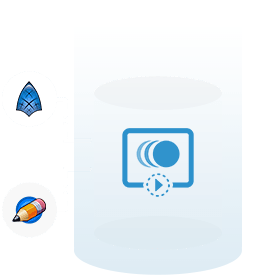
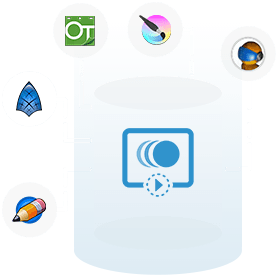
Fixed header image

diff --git a/en/animation-software/k3d/_index.md b/en/animation-software/k3d/_index.md
@@ -1,0 +1,32 @@
+---
+keywords: open source 3d modeling software, best 3d animation software, free 3d modeling software, free 3d modeling software for beginners
+title: K-3D | Free To Use & Open Source 3d Modeling Software
+singlepageh1title: Free To Use & Open Source 3d Modeling Software
+description: K-3D is an open source software that can be used for 3D animation and modeling. It has a plugin-oriented procedural engine for powerful and quick processing.
+singlepageh2title: K-3D is an open source software that can be used for 3D animation and modeling. It has a plugin-oriented procedural engine for powerful and quick processing.
+Shortdescriptionlistingpage: K-3D is an open source software that can be used for 3D animation and modeling. It has a plugin-oriented procedural engine for powerful and quick processing.
+linktitle: K-3D
+Imagetext: Free Animation Software
+draft: false
+weight: 4
+layout: "single"
+GithubLink: https://github.com/K-3D/k3d
+HomePage_TitleText: Open Source Animation Software
+
+ListingPage_MenuImage_TitleText: K-3D Logo
+ListingPage_MenuImage_AltText: Best Open Source Animation Software
+ListingPage_Link_TitleText: Explore K-3D
+
+SinglePage_HeaderImage_TitleText: K-3D | Free To Use & Open Source 3d Modeling Software
+SinglePage_HeaderImage_AltText: K-3D | Free To Use & Open Source 3d Modeling Software
+SinglePage_MenuImage_TitleText: K-3D | Free To Use & Open Source 3d Modeling Software
+SinglePage_MenuImage_AltText: K-3D | Free To Use & Open Source 3d Modeling Software
+
+
+---
+
+K-3D is a completely free and one of the best 3d animation software animation software that is released under the GNU public license, and is written completely in C++ keeping in mind that it can be used on multiple platforms. As a 3D animation and modelling application, K-3D is quite powerful while providing versatile and basic animation features.
+
+Not only can you use this free 3d modeling software on a Windows operating system, but K-3D is compatible with Mac OS, FreeBSD, Linux/GNU, and other platforms as well. Furthermore, if you want to integrate K-3D into other 3-D interactive applications like Collada, GLX, Gnome, GTS, OpenEXR, OpenCASCADE and more, you can adapt and build K-3D to support them. 
+
+K-3D isn’t only versatile but extremely flexible as it allows users to create complex workflows combining different animation models, mirroring different sides, or applying changes to the entire workflow and watch as all the changes are applied automatically. K-3D is an intuitive animation software which both new users and professionals will find easy to navigate and use. 

diff --git a/en/animation-software/k3d/features.md b/en/animation-software/k3d/features.md
@@ -1,0 +1,20 @@
+---
+title: Features
+onpagelink: features
+weight: 2
+
+---
+
+#### **Features**
+
+Here are some good to know features about this open source animation software:
+
+- You can use K-3D to create animation files that use OpenGL solid, shaded or texture mapped views and can be edited at any time. 
+- There are many interactive tutorials and macros available to use K-3D which you can record and share with the community or playback for yourself.
+- For maximum productivity K-3D allows you to playback animation at any time during the modelling, editing or animating part of a task.
+- K-3D provides many viewing angles that let you pan, tilt, zoom in or out, or view animation in dolly, tripod or modelling modes.
+- One of the best features of K-3D includes the establishing of connection between arbitrary data in the visualization pipeline. You can connect any object property with another one to create complex and unique pipelines.
+- K-3D provides many basic and advanced animation features such as Bezier curve, animate different modelling operations, apply different textures with a 16-bit float bitdepth and more.
+- Rendering is pretty powerful for K-3D as it includes industrial strength standards as its foundation with the inclusion of native RenderMan ™ support including Aqsis, Pixie, Render Dot c and more.
+- You can also create 2D compositions instead of 3D animation. Some of the 3D primitives include cone, circle, disk, cylinder, as well as geometry types like Polygon, NURBS, blobby and more.
+- K-3D is a free 3d modeling software for beginners. New artists will find K-3D easy to understand, and professionals feel right at home.

diff --git a/en/animation-software/k3d/explore.md b/en/animation-software/k3d/explore.md
@@ -1,0 +1,17 @@
+---
+title: Explore
+onpagelink: explore
+weight: 4
+
+---
+
+#### **Explore**
+
+In this article we have discussed K-3D's overview and features that makes it one of the best 3D animation software. To learn about other free animation software, please check following pages:
+
+- [Best Open Source Animation Software](/animation-software)
+- [OpenToonz](/animation-software/opentoonz)
+- [Pencil2D](/animation-software/pencil2d)
+- [Syfig](/animation-software/synfig)
+- [Krita](/animation-software/krita)
+ 

diff --git a/en/animation-software/k3d/installation.md b/en/animation-software/k3d/installation.md
@@ -1,0 +1,20 @@
+---
+title: Installation
+onpagelink: installation
+weight: 3
+
+---
+
+#### **Installation**
+
+- Open terminal and update your local server’s package index by typing following command:
+  
+```
+sudo apt-get update -y
+```
+
+- Run following command in terminal to install K-3D:
+
+```
+sudo apt-get install -y k3d
+```

diff --git a/en/animation-software/k3d/requirements.md b/en/animation-software/k3d/requirements.md
@@ -1,0 +1,14 @@
+---
+title: System Requirements
+onpagelink: requirements
+weight: 1
+
+---
+
+#### **System Requirements**
+
+While installing K-3D for Ubuntu make sure you have the following system requirements:
+
+- Ubuntu 18.04 or more
+- A non-root user with sudo permissions
+ 
